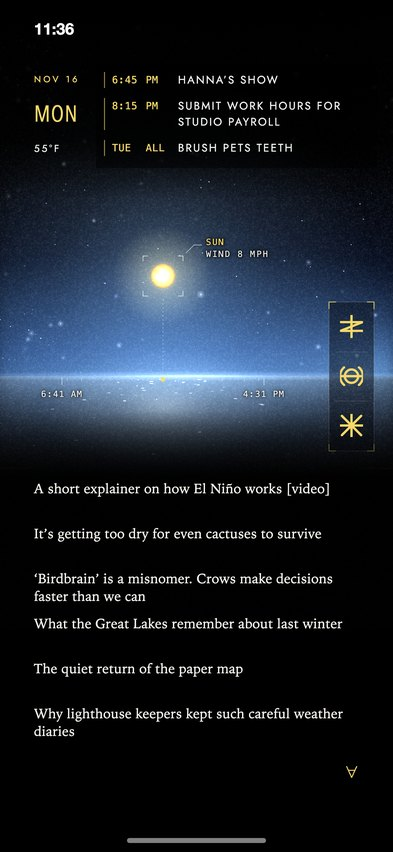
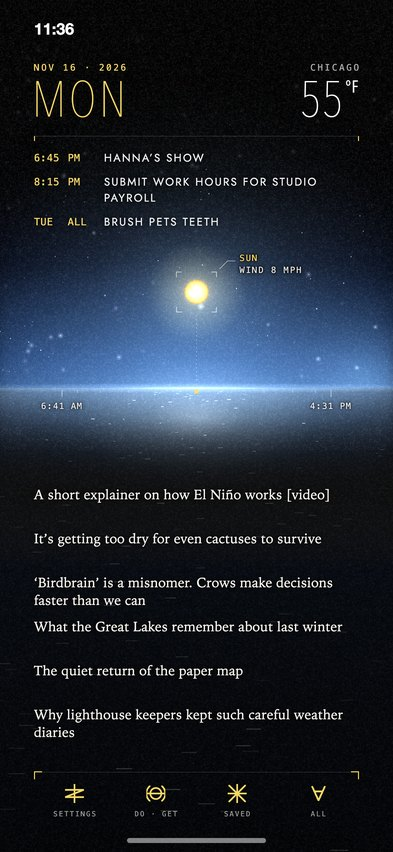
[#101] design-ideas/v8-lemuria: second pass from first principles (full-screen view, bottom controls, centred path, new header)

diff --git a/design-ideas/v8-lemuria/index.html b/design-ideas/v8-lemuria/index.html
@@ -32,34 +32,36 @@
   /* everything at the left lines up with the clock's left edge (x 34): date, day, weather, the ∀ button and the article list */
   .clock { left: 34px; top: 19px; font: 600 16px -apple-system, "Helvetica Neue", sans-serif; text-transform: none; color: #fff; }
 
-  /* upper left: date, day, weather sign, temperature, condition */
-  .date { left: 34px; top: 72.7px; font-size: 9px; letter-spacing: .26em; }
-  /* the day name: a light condensed face (Avenir Next Condensed, which ships with iOS and macOS), sized by script to be exactly as wide as the date above it */
-  .day  { left: 34px; top: 102.2px; font-family: "Avenir Next Condensed", "Jost", sans-serif; font-size: 28px; line-height: 30px; letter-spacing: .03em; font-weight: 400; color: rgb(var(--hi));
-          white-space: nowrap; }
-  .now  { left: 34px; top: 145.8px; display: flex; align-items: center; height: 14px; font-size: 10px; letter-spacing: .2em; white-space: nowrap; }
-
-  /* upper right: the next three events */
-  .events { left: 96px; top: 64px; width: 281px; margin: 0; padding: 8px 8px 2px 8px; list-style: none; font-size: 11px; letter-spacing: .13em; line-height: 16px;
-            background: rgba(0, 0, 0, .55); }
-  .events li { display: grid; grid-template-columns: 66px 1fr; margin-bottom: 10px; padding-left: 7px; border-left: 1px solid rgba(var(--teal), .6); }
+  /* the header: two small labels (date, place) over two large thin read-outs (day, temperature), a hairline, then the next three events across the full width */
+  .date, .place { top: 62px; font-family: ui-monospace, "SF Mono", Menlo, monospace; font-size: 9px; line-height: 11px; letter-spacing: .2em; white-space: nowrap; }
+  .date { left: 34px; color: rgb(var(--amber)); }
+  .place { right: 34px; color: rgba(238,240,240,.7); letter-spacing: .2em; margin-right: -.2em; }
+  .day, .temp { top: 76px; font-family: "Avenir Next Condensed", "Jost", sans-serif; font-weight: 200; font-size: 50px; line-height: 50px; white-space: nowrap; }
+  .day  { left: 32px; letter-spacing: .06em; color: rgb(var(--hi)); }
+  .temp { right: 34px; color: #fff; text-transform: none; }
+  .temp i { font-style: normal; font-size: 17px; line-height: 20px; vertical-align: 24px; margin-left: 2px; font-weight: 400; letter-spacing: .04em; }
+  .rule { left: 34px; top: 136px; width: 325px; height: 5px; border-top: .5px solid rgba(255,255,255,.3); border-left: 1px solid rgb(var(--amber)); border-right: 1px solid rgb(var(--amber)); }
+  .events { left: 34px; top: 150px; width: 325px; margin: 0; padding: 0; list-style: none; font-size: 11px; letter-spacing: .13em; line-height: 16px; text-shadow: 0 0 5px rgba(0,0,0,.9); }
+  .events li { display: grid; grid-template-columns: 70px 1fr; margin-bottom: 8px; }
   /* the time is two fixed columns: the hour (or the day, for an all-day event), then AM, PM or ALL, so those always start at the same place */
   .events time { color: rgb(var(--teal)); font-size: 10px; letter-spacing: .04em; display: grid; grid-template-columns: 5.6ch auto; justify-content: start; }
   .events time b { font-weight: inherit; }
 
   /* below the horizon: the three symbols, then the article titles in the lower sea */
   svg.line { fill: none; stroke: rgb(var(--amber)); stroke-width: .085; stroke-linecap: round; stroke-linejoin: round; overflow: visible; }
-  /* one column at the right: saved below the horizon, list centred on it (y 376), settings the same step above; the ∀ button is in the lower right corner, centred under the column */
-  .icons { right: 30px; top: 315px; display: flex; flex-direction: column; gap: 26.5px; }
-  /* the four buttons take their own colour, picked per screen to stand out from what is behind them, over a thin dark edge */
-  .icons svg, svg.more { stroke: rgb(var(--btn)); }
-  body.nobtn .icons, body.nobtn .more { display: none; }   /* ?nobtn: a frame without the buttons, used to measure what is behind them */
-  .icons svg { width: 23px; height: 23px; stroke-width: .1; }
-  /* the dark panel behind these three is drawn on the canvas (see `panel` in the script), so the film grain lies over it */
-  .more { left: 345.5px; top: 766px; width: 12px; height: 12px; stroke-width: .17; filter: drop-shadow(0 1px 2.5px rgba(0,0,0,.75)) drop-shadow(0 0 6px rgba(0,0,0,.5)); }   /* a soft dark shadow round it; it has no panel */
+  /* the four controls: one row along the bottom, within thumb reach, hung from a hairline with ink corners; each has its name under it */
+  .bar { left: 34px; top: 772px; width: 325px; height: 46px; display: grid; grid-template-columns: repeat(4, 1fr); border-top: .5px solid rgba(255,255,255,.26); }
+  .bar::before, .bar::after { content: ""; position: absolute; top: -1px; width: 7px; height: 7px; border-top: 1px solid rgb(var(--amber)); }
+  .bar::before { left: 0; border-left: 1px solid rgb(var(--amber)); }
+  .bar::after { right: 0; border-right: 1px solid rgb(var(--amber)); }
+  .bar div { display: flex; flex-direction: column; align-items: center; justify-content: flex-end; gap: 7px; }
+  .bar svg { width: 19px; height: 19px; stroke: rgb(var(--btn)); stroke-width: .09; }
+  .bar svg.all { width: 15px; height: 15px; margin-bottom: 2px; stroke-width: .12; }
+  .bar span { font-family: ui-monospace, "SF Mono", Menlo, monospace; font-size: 7px; line-height: 8px; letter-spacing: .18em; margin-right: -.18em; color: rgba(238,240,240,.62); }
+  body.nobtn .bar { display: none; }   /* ?nobtn: a frame without the controls */
 
-  .feed { left: 34px; top: 480px; width: 332px; margin: 0; padding: 0; list-style: none; font-size: 9.5px; letter-spacing: .2em; line-height: 14.5px; }
-  .feed li { height: 45px; }
+  .feed { left: 34px; top: 486px; width: 332px; margin: 0; padding: 0; list-style: none; font-size: 9.5px; letter-spacing: .2em; line-height: 14.5px; }
+  .feed li { height: 44px; text-shadow: 0 0 6px rgba(0,0,0,.9), 0 0 2px rgba(0,0,0,.7); }
   /* article titles: a humanist serif in sentence case (Iowan Old Style, then Charter; both ship with iOS and macOS) */
   .feed span { font-family: "Iowan Old Style", "Charter", ui-serif, Georgia, serif; text-transform: none; letter-spacing: .01em; color: rgb(244, 242, 236); font-size: 13.5px; line-height: 17.5px; }
   /* the tag beside the sun or moon and the rise and set times under the horizon: small mono type; the lines they hang on are drawn on the canvas */
@@ -103,9 +105,11 @@
   <div class="ui">
     <div class="clock" id="clock">6:23</div>
 
-    <div class="date"><span class="amber" id="date">Nov 16</span></div>
-    <div class="day"><span id="day">Mon</span></div>
-    <div class="now"><span>55°F</span></div>
+    <div class="date" id="date">Nov 16 · 2026</div>
+    <div class="place">Chicago</div>
+    <div class="day" id="day">Mon</div>
+    <div class="temp">55<i>°F</i></div>
+    <div class="rule"></div>
 
     <ul class="events">
       <li><time class="mono"><b>6:45</b><b>PM</b></time><span>Hanna’s show</span></li>
@@ -117,11 +121,6 @@
     <div class="mark" id="rise">6:41 AM</div>
     <div class="mark" id="set">4:31 PM</div>
 
-    <svg class="line more"><use href="#i-more"/></svg>
-    <div class="icons" aria-hidden="true">
-      <svg class="line"><use href="#i-settings"/></svg><svg class="line"><use href="#i-list"/></svg><svg class="line"><use href="#i-saved"/></svg>
-    </div>
-
     <ul class="feed">
       <li><span>A short explainer on how El Niño works [video]</span></li>
       <li><span>It’s getting too dry for even cactuses to survive</span></li>
@@ -130,23 +129,28 @@
       <li><span>The quiet return of the paper map</span></li>
       <li><span>Why lighthouse keepers kept such careful weather diaries</span></li>
     </ul>
+    <div class="bar">
+      <div><svg class="line"><use href="#i-settings"/></svg><span>Settings</span></div>
+      <div><svg class="line"><use href="#i-list"/></svg><span>Do · Get</span></div>
+      <div><svg class="line"><use href="#i-saved"/></svg><span>Saved</span></div>
+      <div><svg class="line all"><use href="#i-more"/></svg><span>All</span></div>
+    </div>
     <div class="home"></div>
   </div>
 </div>
 
 <nav id="nav" aria-label="Scene state">
   <h1>Seasign v8 · Lemuria</h1>
-  <p>v7 pushed towards a quiet instrument display: one ink colour per screen, hairlines, the sun and moon as light, tracked by a bracket and tag, with rise and set marked on the horizon. Pick a state; arrow keys step through them.</p>
+  <p>v7 pushed towards a quiet instrument display: the view fills the whole screen with thin read-outs laid over it: one ink colour per screen, hairlines, the sun and moon as light on a centred path, controls along the bottom. Pick a state; arrow keys step through them.</p>
 </nav>
 
 <script>
 "use strict";
 const W = 393, H = 852, TAU = Math.PI * 2, PI = Math.PI;
-const HZ = 376;                                        // the sea's horizon
+const HZ = 388;                                        // the sea's horizon
 const SHOW_ARC = new URLSearchParams(location.search).has("arc");   // the drawn line of the sun and moon's path: off unless ?arc is in the address
 const HUD = !new URLSearchParams(location.search).has("nohud");   // the bracket, tag, and horizon marks: ?nohud hides them
-const PANEL = { x: 329, y: 302, w: 45, h: 149, r: 3 };  // behind the three buttons at the right
-const PATH = { x: 62 + 101, half: 101, top: 100 };     // left of centre and narrower than the screen: its ends are placed so the very large rising and setting sun or moon clears the left edge and the button panel
+const PATH = { x: W / 2, half: 134.5, top: 96 };          // centred, and as wide as the very large rising and setting sun or moon allows: nothing stands on the horizon any more
 PATH.r = (PATH.half * PATH.half + PATH.top * PATH.top) / (2 * PATH.top); PATH.a0 = Math.asin((PATH.r - PATH.top) / PATH.r);
 
 /* body: the sun or moon's colour; glow: the light round it; arc: the tint of the light on the water; power: overall brightness */
@@ -205,6 +209,7 @@ const bits = {
   clouds: list(9, () => ({ x: wrnd(), y: -.62 + wrnd() * .75, w: .35 + wrnd() * .45, h: .07 + wrnd() * .08, sp: .006 + wrnd() * .012 })),
   rain: list(64, () => ({ x: wrnd(), y: wrnd(), sp: .5 + wrnd() * .4 })),
   snow: list(56, () => ({ x: wrnd(), y: wrnd(), sp: .03 + wrnd() * .04, r: .6 + wrnd() * .9, ph: wrnd() * TAU })),
+  swell: list(170, () => ({ x: grnd(), d: grnd(), ph: grnd() * TAU, s: grnd() })),      // the near sea: faint wave lights all the way down the screen
   glints: list(110, () => ({ x: grnd(), y: Math.pow(grnd(), 1.6), ph: grnd() * TAU, s: .5 + grnd() * 1.2, v: grnd() < .08 })),
 };
 let state, look;
@@ -400,8 +405,8 @@ function draw(t) {
         glow(sx * (rad * Math.cos(ang) + ox), rad * Math.sin(ang) + oy, sz, sz * (.55 + .5 * hash(k * 1.1 + j)), "58,72,98", .2, .6);
       }
     }
-    for (let k = 0; k < 17; k++) {                                                   // craters: lumpy outlines, each tilted and squashed differently, some with a broken pale rim
-      const ang = hash(k * 3.7 + 9) * TAU, rad = R * .9 * Math.sqrt(hash(k * 6.3 + 5)), cr = (.45 + hash(k * 4.4) * 1.25) * u, al = .2 + .3 * hash(k * 7.3);
+    for (let k = 0; k < 17; k++) {                                                   // craters: lumpy outlines, each tilted and squashed differently, all soft
+      const ang = hash(k * 3.7 + 9) * TAU, rad = R * .9 * Math.sqrt(hash(k * 6.3 + 5)), cr = (.45 + hash(k * 4.4) * 1.25) * u, al = .1 + .16 * hash(k * 7.3);
       ctx.save(); ctx.translate(sx * rad * Math.cos(ang), rad * Math.sin(ang)); ctx.rotate(hash(k * 2.9) * PI); ctx.scale(1, .55 + .45 * hash(k * 9.1));
       const pt = j => { const q = j / 8 * TAU, rr = cr * (.62 + .7 * hash(k * 13.7 + (j % 8) * 4.1)); return [rr * Math.cos(q), rr * Math.sin(q)]; };
       const mid = j => { const p0 = pt(j), p1 = pt(j + 1); return [(p0[0] + p1[0]) / 2, (p0[1] + p1[1]) / 2]; };
@@ -409,7 +414,6 @@ function draw(t) {
       for (let j = 1; j <= 8; j++) ctx.quadraticCurveTo(...pt(j), ...mid(j));
       ctx.fillStyle = col("46,58,84", al); ctx.fill();
       glow(0, 0, cr * 1.7, cr * 1.7, "46,58,84", al * .7, .55);
-      if (hash(k * 5.3) > .45) { const q0 = hash(k * 8.9) * TAU; ctx.beginPath(); ctx.arc(0, 0, cr * 1.02, q0, q0 + .8 + hash(k * 3.1) * 1.3); ctx.lineWidth = .28 * u; ctx.strokeStyle = "rgba(255,255,255,.4)"; ctx.stroke(); }
       ctx.restore();
     }
     for (let k = 0; k < 70; k++) {                                                   // fine pitting and pale flecks
@@ -425,7 +429,7 @@ function draw(t) {
     ctx.globalAlpha = .26; ctx.drawImage(grain, 96, 60, 22, 22, -R - 1, -R - 1, R * 2 + 2, R * 2 + 2);
     ctx.filter = "none"; ctx.globalAlpha = 1; ctx.globalCompositeOperation = "source-over"; ctx.restore();
     ctx.globalCompositeOperation = "lighter";
-    ctx.beginPath(); ctx.arc(bx, by, R, 0, TAU); ctx.lineWidth = .6; ctx.strokeStyle = col(SILVER, .55); ctx.stroke();
+    ctx.beginPath(); ctx.arc(bx, by, R, 0, TAU); ctx.lineWidth = .6; ctx.strokeStyle = col(SILVER, .22); ctx.stroke();
   }
   ctx.restore();
   ctx.globalCompositeOperation = "lighter";
@@ -449,7 +453,7 @@ function draw(t) {
     for (let i = 0; i <= hours; i++) { const px = pathAt(i / hours)[0], end = i === 0 || i === hours; hair(px, HZ + 2, px, HZ + (end ? 9 : 5), "255,255,255", end ? .7 : .42); }
     if (state.turn > .05 && state.turn < .95) { ctx.fillStyle = col(ink, .95); ctx.fillRect(bx - 2, HZ + 1.5, 4, 4); }   // not when it is on the horizon, where the square is lost in the glare
     /* corner brackets round the sun or moon, and a short leader to its tag */
-    const hb = R + 8, arm = Math.min(9, 4 + R * .1), flip = bx > 190 ? -1 : 1;
+    const hb = R + 8, arm = Math.min(9, 4 + R * .1), flip = bx > W / 2 + 1 ? -1 : 1;
     for (const sx of [-1, 1]) for (const sy of [-1, 1]) {
       const cx = bx + sx * hb, cy = by + sy * hb; if (cy > HZ - 3) continue;   // only the corners above the horizon
       ctx.beginPath(); ctx.moveTo(cx - sx * arm, cy); ctx.lineTo(cx, cy); ctx.lineTo(cx, cy - sy * arm); ctx.lineWidth = .7; ctx.strokeStyle = "rgba(255,255,255,.72)"; ctx.stroke();
@@ -458,28 +462,28 @@ function draw(t) {
     const lx = bx + flip * hb, ly = by - hb;
     ctx.beginPath(); ctx.moveTo(lx + flip * 3, ly - 3); ctx.lineTo(lx + flip * 11, ly - 11); ctx.lineTo(lx + flip * 19, ly - 11); ctx.lineWidth = .6; ctx.strokeStyle = "rgba(255,255,255,.6)"; ctx.stroke();
   }
-  /* the frame behind the three buttons: a flat dark plate with a hairline edge and short brighter corners */
-  if (!document.body.classList.contains("nobtn")) {
-    const p = PANEL;
-    ctx.fillStyle = "rgba(2,5,12,.5)"; ctx.fillRect(p.x, p.y, p.w, p.h);
-    ctx.lineWidth = .6; ctx.strokeStyle = "rgba(255,255,255,.2)"; ctx.strokeRect(p.x, p.y, p.w, p.h);
-    for (const sx of [0, 1]) for (const sy of [0, 1]) {
-      const cx = p.x + sx * p.w, cy = p.y + sy * p.h, dx = sx ? -1 : 1, dy = sy ? -1 : 1;
-      ctx.beginPath(); ctx.moveTo(cx + dx * 7, cy); ctx.lineTo(cx, cy); ctx.lineTo(cx, cy + dy * 7); ctx.lineWidth = .8; ctx.strokeStyle = col(ink, .85); ctx.stroke();
-    }
-    hair(p.x + 6, p.y + 50, p.x + p.w - 6, p.y + 50, "255,255,255", .14); hair(p.x + 6, p.y + 99, p.x + p.w - 6, p.y + 99, "255,255,255", .14);
-  }
   ctx.globalCompositeOperation = "lighter";
-  const gx = Math.floor(hash(Math.floor(t * 24)) * 180), gy = Math.floor(hash(Math.floor(t * 24) + 9.1) * 180);
+  /* ---- the view fills the screen. Dark is laid over the top of the sky and over the sea so the words read, but not to black:
+          stars still show behind the header, and the sea carries faint wave lights all the way down, brighter under the sun or moon ---- */
+  ctx.globalCompositeOperation = "source-over";
+  const top = ctx.createLinearGradient(0, 0, 0, 290); top.addColorStop(0, "rgba(0,0,0,.92)"); top.addColorStop(.4, "rgba(0,0,0,.74)"); top.addColorStop(.62, "rgba(0,0,0,.46)"); top.addColorStop(.8, "rgba(0,0,0,.2)"); top.addColorStop(.92, "rgba(0,0,0,.05)"); top.addColorStop(1, "rgba(0,0,0,0)");
+  ctx.fillStyle = top; ctx.fillRect(0, 0, W, 290);
+  const low = ctx.createLinearGradient(0, HZ + 30, 0, HZ + 110); low.addColorStop(0, "rgba(0,0,0,0)"); low.addColorStop(1, "rgba(0,0,0,.9)");
+  ctx.fillStyle = low; ctx.fillRect(0, HZ + 30, W, H - HZ - 30);
+  ctx.globalCompositeOperation = "lighter";
+  const deep = ctx.createLinearGradient(0, HZ + 60, 0, H); deep.addColorStop(0, col(tint, 0)); deep.addColorStop(.3, col(look.night ? "40,60,90" : "30,50,84", .16)); deep.addColorStop(1, col("10,20,40", .1));
+  ctx.fillStyle = deep; ctx.fillRect(0, HZ + 60, W, H - HZ - 60);
+  for (const g of bits.swell) {
+    const d = g.d, gy = HZ + 44 + Math.pow(d, 1.5) * (H - HZ - 44), len = 3 + d * 15, gx = ((g.x + t * .003 * (.4 + d)) % 1) * (W + 40) - 30;
+    const lane = Math.exp(-Math.pow((gx + len / 2 - bx) / (50 + d * 150), 2));                      // the lane of light under the sun or moon, widening toward the viewer
+    const a = Math.pow(.5 + .5 * Math.sin(t * (.9 + g.s) + g.ph), 2) * (.1 + .24 * lane * (1 - .6 * d)) * (.5 + .5 * P);
+    ctx.fillStyle = col(lane > .4 ? tint : SILVER, a); ctx.fillRect(gx, gy, len, .5 + d * .5);
+  }
+  /* film grain over the whole view */
+  const nx = Math.floor(hash(Math.floor(t * 24)) * 180), ny = Math.floor(hash(Math.floor(t * 24) + 9.1) * 180);
   ctx.globalAlpha = .11;
-  for (let yy = -gy; yy < HZ + 110; yy += 180) for (let xx = -gx; xx < W; xx += 180) ctx.drawImage(grain, xx, yy, 180, 180);
+  for (let yy = -ny; yy < H; yy += 180) for (let xx = -nx; xx < W; xx += 180) { ctx.globalAlpha = yy + 90 > HZ + 110 ? .07 : .11; ctx.drawImage(grain, xx, yy, 180, 180); }
   ctx.globalAlpha = 1; ctx.globalCompositeOperation = "source-over";
-  ctx.globalCompositeOperation = "source-over"; ctx.fillStyle = "rgba(255,255,255,.16)"; ctx.fillRect(0, HZ + 92, 30, .6); ctx.fillRect(W - 30, HZ + 92, 30, .6);
-  /* dark behind the words */
-  const top = ctx.createLinearGradient(0, 0, 0, 200); top.addColorStop(0, "rgba(0,0,0,1)"); top.addColorStop(.7, "rgba(0,0,0,.8)"); top.addColorStop(1, "rgba(0,0,0,0)");
-  ctx.fillStyle = top; ctx.fillRect(0, 0, W, 200);
-  const low = ctx.createLinearGradient(0, HZ + 34, 0, HZ + 100); low.addColorStop(0, "rgba(0,0,0,0)"); low.addColorStop(1, "rgba(0,0,0,.92)");
-  ctx.fillStyle = low; ctx.fillRect(0, HZ + 34, W, H - HZ - 34);
 }
 
 /* ---------- choosing a state ---------- */
@@ -499,7 +503,7 @@ function show(id) {
   document.getElementById("clock").textContent = state.time.replace(/^0/, "");
   for (const b of document.querySelectorAll("nav button")) b.setAttribute("aria-pressed", b.dataset.id === state.id);
   /* the tag: what it is (and how much of the moon is lit), then the wind, and the cloud cover when there is any; the marks: when it rises and sets */
-  const [tx, ty] = pathAt(state.turn), low2 = Math.pow(Math.max(0, 1 - (HZ - ty) / PATH.top), 2), hb = 12 * (1 + 3.2 * low2) + 8, flip = tx > 190;
+  const [tx, ty] = pathAt(state.turn), low2 = Math.pow(Math.max(0, 1 - (HZ - ty) / PATH.top), 2), hb = 12 * (1 + 3.2 * low2) + 8, flip = tx > W / 2 + 1;
   const tag = document.getElementById("tag"), lit = state.phase == null ? null : Math.round((1 - Math.cos(TAU * state.phase)) / 2 * 100);
   const edge = state.turn < .05 ? "rise" : state.turn > .95 ? "set" : null;        // on the horizon: the tag gives the time, and the mark under it (lost in the glare) is hidden
   document.getElementById("tag1").textContent = edge ? (lit == null ? "Sun" : "Moon") + edge + " " + state[edge] : lit == null ? "Sun" : "Moon " + lit + "%";
@@ -520,11 +524,6 @@ addEventListener("keydown", e => {
   show(STATES[(STATES.indexOf(state) + step + STATES.length) % STATES.length].id);
 });
 ((document.fonts && document.fonts.ready) || Promise.resolve()).then(() => {
-  /* make the day name exactly as wide as the date (each ends with one letter-space, which is left out of both widths) */
-  const dateEl = document.getElementById("date"), dayEl = document.getElementById("day"), wide = (el, gap) => el.getBoundingClientRect().width - gap;
-  const want = wide(dateEl, 9 * .26), got = wide(dayEl, 28 * .03);
-  if (got > 0) { const size = 28 * want / got; dayEl.parentNode.style.fontSize = size + "px"; dayEl.parentNode.style.lineHeight = size * 1.08 + "px";
-    document.querySelector(".now").style.top = 109.8 + size * 1.08 + 7 + "px"; }   // these offsets put the block's top and bottom level with the events' text (date top with the first event's text top, temperature bottom with the last event's text bottom: y 75.7 to 151.7), with equal gaps above and below the day name; measured on a still
   show(params.get("state") || "mid-day");
   if (still) { document.title = "ready"; return; }
   const calm = matchMedia("(prefers-reduced-motion: reduce)").matches;

diff --git a/design-ideas/v0-version-landing-page/index.html b/design-ideas/v0-version-landing-page/index.html
@@ -62,7 +62,7 @@
       <div class="meta"><span class="num">v7</span><span class="name">Firmament</span><span class="note">Open sky of slow stars over the sea; a huge sun and moon at rise and set.</span></div></a></li>
     <li><a class="card" href="../v8-lemuria/index.html">
       <div class="shot"><img src="thumbs/v8-lemuria-day.jpg" alt="Version 8 at mid-day"><img class="night" src="thumbs/v8-lemuria-night.jpg" alt=""></div>
-      <div class="meta"><span class="num">v8</span><span class="name">Lemuria<span class="tag">latest</span></span><span class="note">v7 as a quiet instrument display: one ink colour, hairlines, the sun and moon as light with a bracket and tag.</span></div></a></li>
+      <div class="meta"><span class="num">v8</span><span class="name">Lemuria<span class="tag">latest</span></span><span class="note">A full-screen view of sky and sea with thin read-outs laid over it: one ink colour, hairlines, controls along the bottom.</span></div></a></li>
   </ul>
 </main>
 </body>

diff --git a/design-ideas/v8-lemuria/README.md b/design-ideas/v8-lemuria/README.md
@@ -4,7 +4,23 @@ Look-only mockup; nothing here is part of the app. Made from `v7-firmament/` as 
 
 Open `index.html`. Same address switches as v7: `?state=<id>`, `&bare`, `&still`, `&t=<seconds>`, `&nobtn`, `&arc`. New: `&nohud` hides the bracket, tag and horizon marks.
 
-## What changed from v7
+## The reasoning (second pass, 2026-11-18)
+
+The user asked to push further and to think from first principles. A head-up display is a view of the world with a thin layer of read-outs over it. That gives five rules, and each one changed something:
+
+1. **The view fills the screen.** Before, the scene was a strip between two black blocks of text, like a picture set into a page. Now the sky runs to the top (stars show faintly behind the header) and the sea runs to the bottom, with faint wave lights all the way down, brighter in a lane under the sun or moon. Dark is laid over both ends so the words read, but never to black. The film grain covers the whole screen.
+2. **Nothing stands in the view.** The button column and its plate stood on the horizon and pushed the sun and moon's path to the left. The four controls (settings, do and get lists, saved, all publications) are now one row along the bottom, within thumb reach, hung from a hairline, each with its name under it. The path is centred and wider (its ends at x 62 and 331), and the horizon is clear from edge to edge.
+3. **Rank by size and brightness, not by colour or boxes.** The header is two large thin read-outs, the day at the left in the ink colour and the temperature at the right in white, each under a small label (date; place). A hairline with ink ends closes it, and the three events run under it across the full width, with no box and no rule lines.
+4. **Two voices.** The instrument speaks in small mono capitals and thin numerals (date, place, times, tag, control names). What people wrote keeps its own voice: event titles in Jost capitals, article titles in the serif.
+5. **Every mark shows something the app knows.** Nothing decorative was added. The place name (from the zip code) is new; the rest was already in the first pass.
+
+Also in this pass: the moon is softer (fainter craters, no pale rims, a fainter edge line), and the horizon moved down 12 points to y 388 with the top of the path 96 above it.
+
+Given up on purpose from v7's settled layout, since the user invited a rethink: the date block beside the events, the day name sized to the date's width, the button column, `∀` in the lower right corner (it is now the fourth control), and the place name is added. Kept: serif titles without numbers, 12-hour times, no condition word or symbol at the top, the path line off, the sky gradients.
+
+## What changed from v7 (first pass)
+
+Where this section disagrees with the reasoning above (button frame, layout), the section above is the current state.
 
 - **One ink colour per screen.** The date, day name, event times, buttons and the tag's first line share one colour; everything else is white. Soft yellow by day and in weather, pale yellow at sunrise, pale peach at sunset, pale aqua at night. v7 used three colours per screen. The glow behind the day name is gone.
 - **The sun reads as light, not as a drawn ball.** A near-white hot core, a warm limb, far fainter dark cells; its paler colours make the soft light round it stronger. It still churns and flickers, and the rippling outer line at rise and set is kept, thinner and paler. The rotating pale ring from v6 is gone.
@@ -18,7 +34,7 @@ Open `index.html`. Same address switches as v7: `?state=<id>`, `&bare`, `&still`
 
 ## Kept from v7 on purpose
 
-Layout (clock, date block, events, horizon at y 376, button column, `∀`, article list), serif article titles without numbers, 12-hour times, temperature only at the top, the path line off (`&arc` shows it), the sky gradients, the stars, grain, water glints, the moon, and the size of the sun and moon at rise and set.
+Serif article titles without numbers, 12-hour times, temperature only at the top, the path line off (`&arc` shows it), the sky gradients, the stars, grain, water glints, the moon, and the size of the sun and moon at rise and set.
 
 ## Decided without being asked
 

diff --git a/memory/notes/2026-11-16-design-ideas.md b/memory/notes/2026-11-16-design-ideas.md
@@ -56,3 +56,5 @@ Working method that held up: positions and gaps were set by measuring rendered s
 ## 2026-11-18: v8-lemuria
 
 The user said v7 still felt like a cartoon or video game and asked for a v8 pushed towards a futuristic HUD, "but keep it constrained"; some of their references (`design-ideas/v8-lemuria/ref-img/`) they called much too busy. They like the grain, the burning sun and the shimmering water. v7 is frozen; work continues in v8. First pass: see `design-ideas/v8-lemuria/README.md` for what changed and what was kept from v7's settled decisions (serif titles, 12-hour times, no condition word at the top, no title numbers, path line off, sky gradients).
+
+Second pass the same day (#101), after "push v8 further - think from first principles": the view now fills the screen (sky to the top, sea with faint wave lights to the bottom, grain over everything); the button column is gone and the four controls are a labelled row along the bottom; the sun and moon's path is centred and wider; the header is a large thin day name and temperature under small date and place labels, then the events across the full width. This gave up several of v7's settled layout choices on purpose (listed in the v8 README); the user had invited a rethink.

diff --git a/tasks/0101-design-ideas-v8-lemuria-second-pass-from.md b/tasks/0101-design-ideas-v8-lemuria-second-pass-from.md
@@ -1,0 +1,27 @@
+---
+id: 101
+title: design-ideas/v8-lemuria: second pass from first principles (full-bleed view, controls at the bottom, centred path, hero header)
+status: in-progress
+owner: lead
+depends_on: []
+created: 2026-11-19T00:46:01Z
+updated: 2026-11-19T00:47:43Z
+---
+
+## Goal
+
+
+## Acceptance criteria
+
+
+## Relevant files
+
+
+## What's been tried
+
+
+## Log
+
+- 2026-11-19T00:46:01Z [lead] created (todo)
+- 2026-11-19T00:46:01Z [lead] status: todo → in-progress — claimed by lead
+- 2026-11-19T00:47:43Z [lead] Second pass applied: full-bleed view, bottom control row, centred path, hero header, softer moon. 12 stills re-rendered and viewed (both sheets' worth: day sheet whole, four night/sunset at larger size). README, notes, landing thumbs updated. node --check passes.
